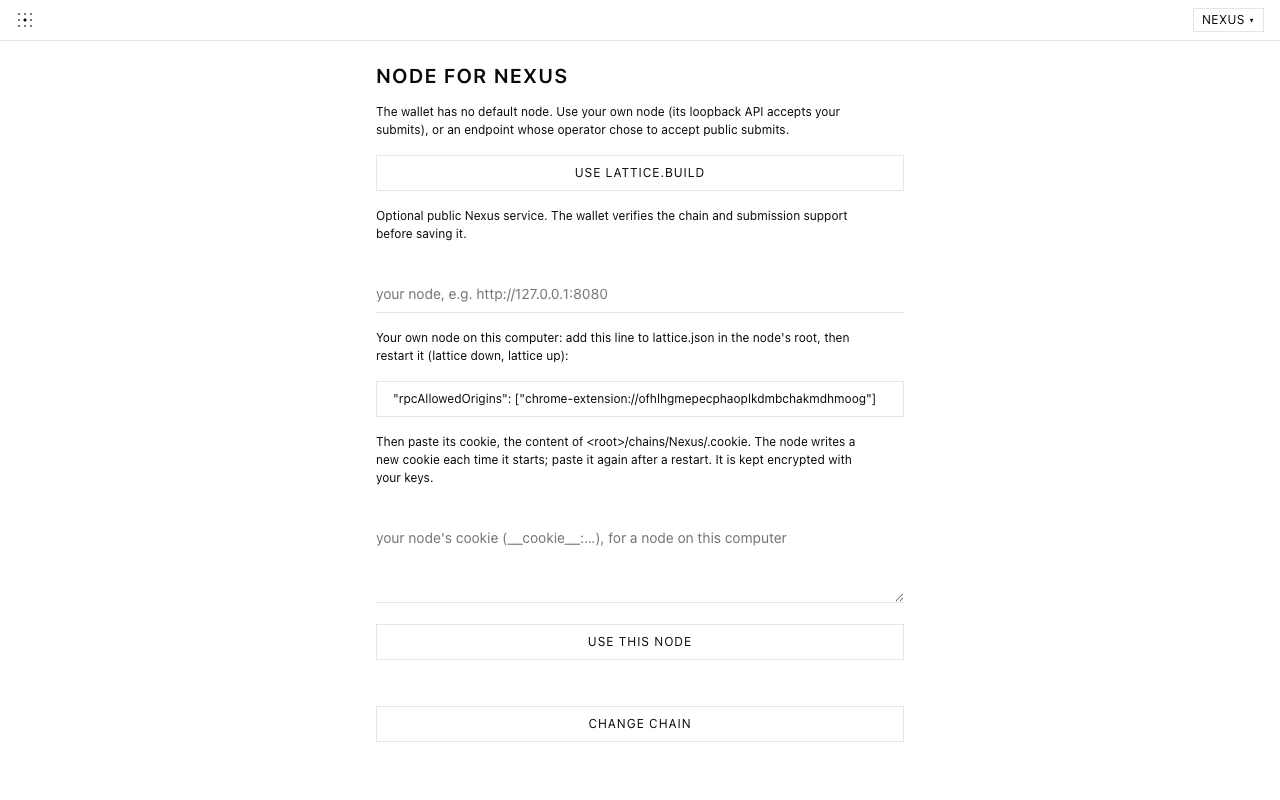
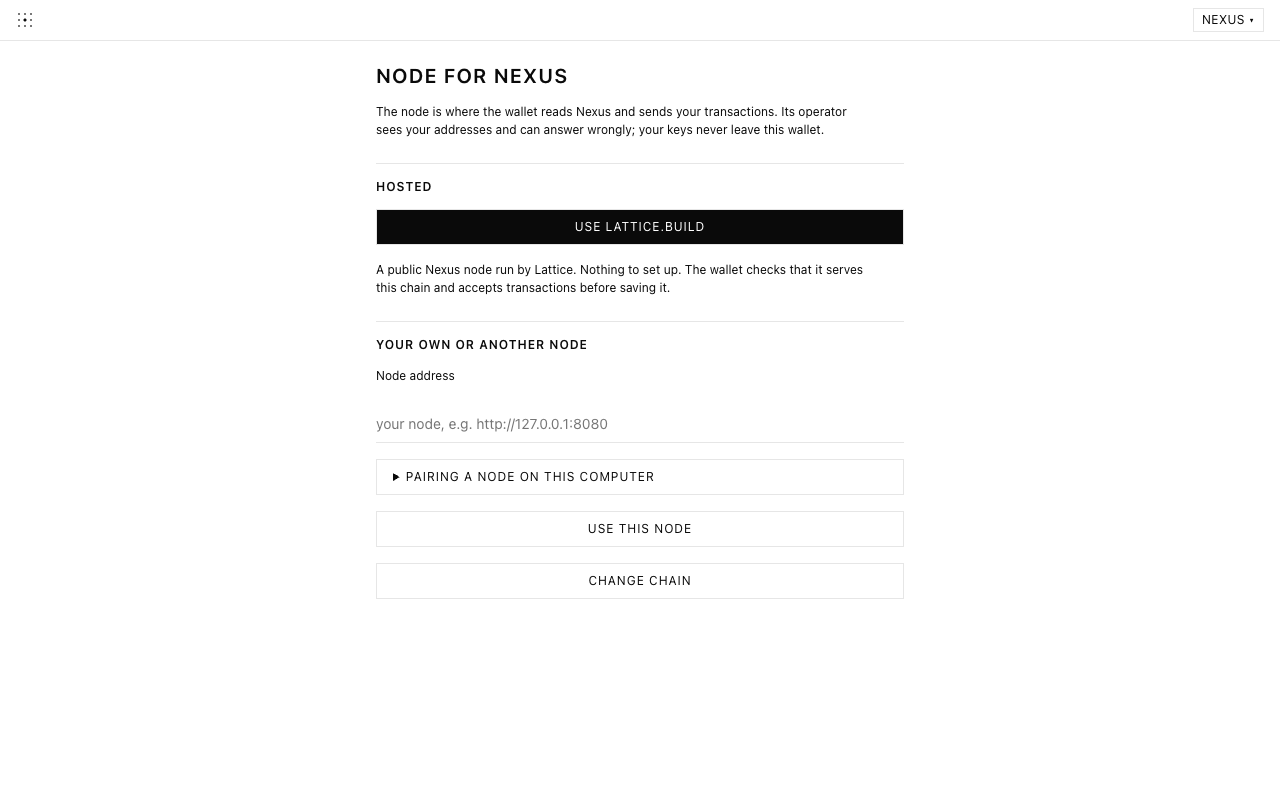
Bring the release documents up to the 0.3.1 candidate
The README still said the wallet ships with no node address, the
verification evidence described 0.3.0 and 104 tests, and the node-choice
store screenshot showed the old screen. The README now lists the hosted
nodes and their declared permissions, the privacy policy says when the
signer locks, the evidence is rewritten for this candidate with its
remaining gates, and the screenshot is retaken.

diff --git a/src/popup/app.ts b/src/popup/app.ts
@@ -1,6 +1,6 @@
 // Lattice Wallet UI, shared by the extension popup and the desktop app. Talks
 // only to the signer (key material never enters this module) and to the node
-// the user chose for reads/submit. There is no default node. Styled with the
+// the user chose for reads/submit. No node is used until one is chosen. Styled with the
 // Lattice design system. The host supplies a Platform: signer, settings
 // store, network permission, and optionally its own node.
 

diff --git a/docs/release-verification.md b/docs/release-verification.md
@@ -1,19 +1,55 @@
 # Release preparation evidence
 
-Date: October 8, 2026. Candidate: 0.3.0 on the release-preparation branch, based on the branding commit 4f33ce4. This is preparation evidence, not public-release approval.
+Date: October 10, 2026. Candidate: 0.3.1 on the release-preparation branch. This is preparation evidence, not public-release approval. It replaces the October 8 evidence for 0.3.0, which no longer describes the code.
 
-Passed: TypeScript checks; all 104 automated tests with both integration environment variables enabled (zero skipped); 22 explicit conformance checks; production dependency audit (zero reported vulnerabilities); package build and manifest asset checks.
+## Automated checks on this candidate
 
-The three ordinarily skipped integration tests were run explicitly:
+- TypeScript checks pass.
+- 132 automated tests: 128 pass and 4 are skipped unless their environment is supplied. Three of those four were then run explicitly (below); the fourth, the funded cross-chain verifier, needs evidence from a real trade and was not run.
+- 22 explicit conformance checks pass.
+- Production dependency audit reports zero vulnerabilities for the wallet and, separately, for the SDK's own lockfile, which is where the shipped signing library is pinned.
+- `npm run package` builds, checks manifest references and writes the ZIP and its SHA-256. The ZIP is not byte-for-byte reproducible (archive timestamps differ between runs), so its checksum identifies one packaging run, not the commit. Record the checksum of the ZIP that is actually uploaded.
 
-- Deployed read smoke against https://lattice-mainnet-read.fly.dev passed. Nexus reported height 4888, minRelayFee 1 and acceptsSubmit true; testnet discovery returned https://lattice-mainnet-testnet.fly.dev and its chain was verified.
-- Own-node authenticated submission passed against isolated local lattice-node processes. A transfer with fee 17 was included at block 3 and the recipient balance matched.
-- Public-submit test passed against an isolated local node. Fee 0 was refused as belowMinRelayFee; fee 5 was included at block 3 and the recipient balance matched. A cheaper replacement was refused as feeTooLow.
+The explicitly run integration tests:
 
-The isolated tests used the newer node binaries in the 5d0c lattice-node worktree. An initial run against the older src/lattice-node binaries failed at startup because they do not recognize --no-default-peers; no submission occurred in that run.
+- Deployed read smoke against https://lattice-mainnet-read.fly.dev passed.
+- Own-node authenticated submission passed against isolated local lattice-node processes.
+- Public-submit test passed against an isolated local node, including the relay-floor refusal and a refused cheaper replacement.
 
-Private vulnerability reporting has been enabled on the GitHub repository. The store dashboard was opened but redirected to Google sign-in, so publisher setup and submission are not complete.
+The isolated tests used lattice-node binaries built at 92df855bd.
 
-Outstanding public-release gates: independent security audit and resolution; Chrome upgrade/recovery validation; a funded cross-chain trade on the deployed network; published policy links; publisher account and final store declarations. The existing cross-chain UI test uses simulated endpoints and must not be represented as deployed-chain evidence.
+## Browser checks during preparation
 
-No user funds or keys were used for these checks. Three 1280×800 store screenshots were captured from the packaged extension in Chrome for Testing 151.0.7922.34, and inspected visually. scripts/store-screenshots.cjs uses a temporary Chrome profile with a disposable private key; that profile is removed after capture. Onboarding import and lock-screen rendering were exercised in this browser run. This does not cover every manual Chrome release gate.
+Each was run in Chrome for Testing 151.0.7922.34 with a temporary profile and disposable keys, on the build current at the time. They were not all repeated on the final commit.
+
+- Lock behaviour: a status read does not postpone the idle lock; the fifth failed export password locks the wallet; a locked signer raises the unlock prompt in place and the interrupted step then completes.
+- Content security policy: from an extension page, requests to plain-http origins and an injected inline script were refused.
+- Live network, read-only: choosing the hosted Nexus node, switching to testnet by discovery, and opening a request naming a sell order then listed on testnet reached the purchase review with correct amounts and the public-node acknowledgement.
+- Layout at popup width with a 94-character node address and a long chain name: nothing runs past the edge on the chain, node and settings screens.
+
+Three 1280×800 store screenshots were captured from the packaged extension. The node-choice screenshot was retaken for this candidate; the welcome and unlock screens are unchanged.
+
+## Faults found against the live network during preparation
+
+Recorded because the automated suite uses simulated nodes written to the wallet's own assumptions, and passed while these were present:
+
+- a purchase could never be reviewed, because the child node's tip was required to equal the block its parent last committed;
+- every unpaid sell order was rejected, because the node omits empty optional fields;
+- a deposit listing whose last page omits its cursor was treated as an error.
+
+All three are fixed and now have tests in the shape the live node sends. A read-only smoke test of the purchase review against a live node would have caught them and is not yet part of the suite.
+
+## Security review
+
+An AI-assisted review of the 0.3.0 commit and package was carried out during preparation. Its findings on recovery after refused submissions, offer selection, export re-authentication, cross-page state, backup bounds, lock behaviour, dependency auditing and password derivation were addressed in this candidate. One was accepted rather than fixed: state proofs are checked against the tip the nodes supply, with no independent verification of the chain, so a purchase through a node that is not on the user's computer requires an explicit acknowledgement on each review. See [node trust](node-trust.md).
+
+That review is not the named independent review the release procedure requires, and no certification is claimed.
+
+## Outstanding public-release gates
+
+- A named independent security review and disposition of its findings.
+- Paying for and withdrawing a purchase on the deployed network. The purchase review has been reached there; payment and withdrawal have never been executed.
+- An upgrade over an existing vault and recovery records, unpacked and store-signed, per [release live testing](release-live-testing.md). No upgrade was verified for this candidate.
+- Published policy links, the publisher account and final store declarations.
+
+No user funds or keys were used for any check above.

diff --git a/docs/privacy-policy.md b/docs/privacy-policy.md
@@ -6,7 +6,7 @@ Lattice Wallet is a non-custodial browser extension maintained by the Lattice pr
 
 ## Data on your device
 
-The wallet creates or imports recovery phrases and private keys and encrypts its vault before storing it in your browser profile. Node authentication cookies are also kept in the encrypted vault. Your password is used locally to unlock the vault; it is not sent to nodes or the publisher. The unlocked session retains a non-extractable encryption key, not your password. Keys remain available in memory while the signer is unlocked. Locking ends that signing session and wipes mutable secret buffers; JavaScript cannot guarantee erasure of strings or runtime copies.
+The wallet creates or imports recovery phrases and private keys and encrypts its vault before storing it in your browser profile. Node authentication cookies are also kept in the encrypted vault. Your password is used locally to unlock the vault; it is not sent to nodes or the publisher. The unlocked session retains a non-extractable encryption key, not your password. Keys remain available in memory while the signer is unlocked. Locking ends that signing session and wipes mutable secret buffers; JavaScript cannot guarantee erasure of strings or runtime copies. The signer locks after ten minutes without use. While a wallet page is in view the session lasts until then; once no wallet page is in view the browser ends it sooner. When a step needs keys and the signer has locked, the wallet asks for the password on that screen.
 
 Addresses, account labels, chain and node choices, fees, transaction history, deposit keys, purchase records, and signed transaction recovery payloads are stored locally outside the encrypted vault. These records contain financial and account information. Signed transactions can be rebroadcast by someone who obtains them; they do not contain private keys. Anyone with access to your browser profile may be able to read this unencrypted metadata.
 

diff --git a/README.md b/README.md
@@ -10,10 +10,17 @@ a **Manifest V3 browser extension**. Keys are generated and used **entirely on
 your device**; the extension talks directly to a node **you choose** and signs
 locally.
 
-## Nodes: you choose, there is no default
+## Nodes: you choose
 
-The wallet ships with **no node URL**. On first use it asks for one per chain:
+Nothing is selected until you choose it. On first use the wallet asks for a
+node per chain:
 
+- a **hosted Lattice node** — `rpc.lattice.build` for Nexus, and the hosted
+  testnet node. The wallet declares these three origins
+  (`rpc.lattice.build`, `lattice-mainnet-read.fly.dev`,
+  `lattice-mainnet-testnet.fly.dev`) as required host permissions so choosing
+  them needs no further prompt; it still contacts none of them until you pick
+  one or ask for automatic discovery; or
 - **your own node** — its loopback API (`http://127.0.0.1:<rpc-port>`)
   accepts your submits once the wallet is **paired** with it (below); or
 - an endpoint **discovered** through a Nexus node you choose, by the SDK's
